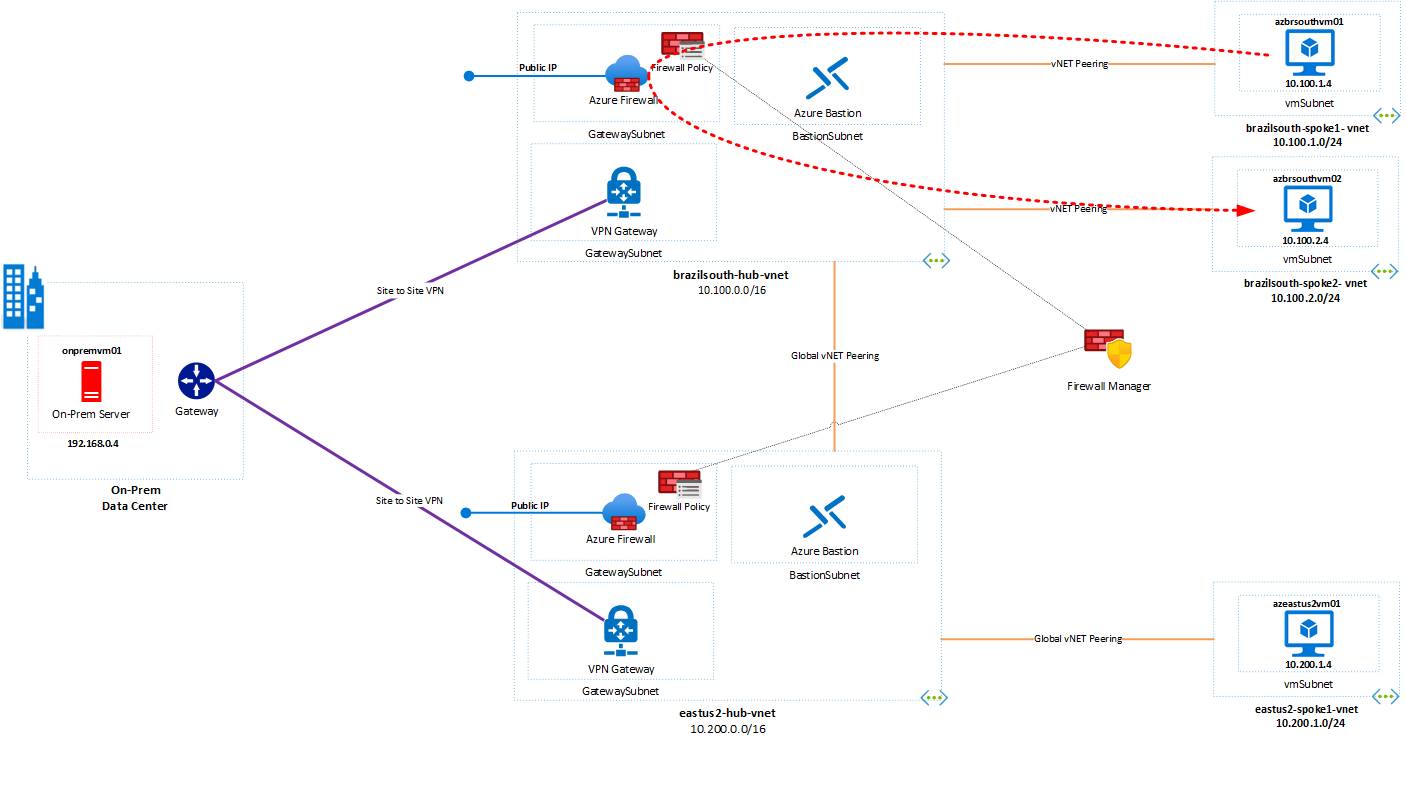
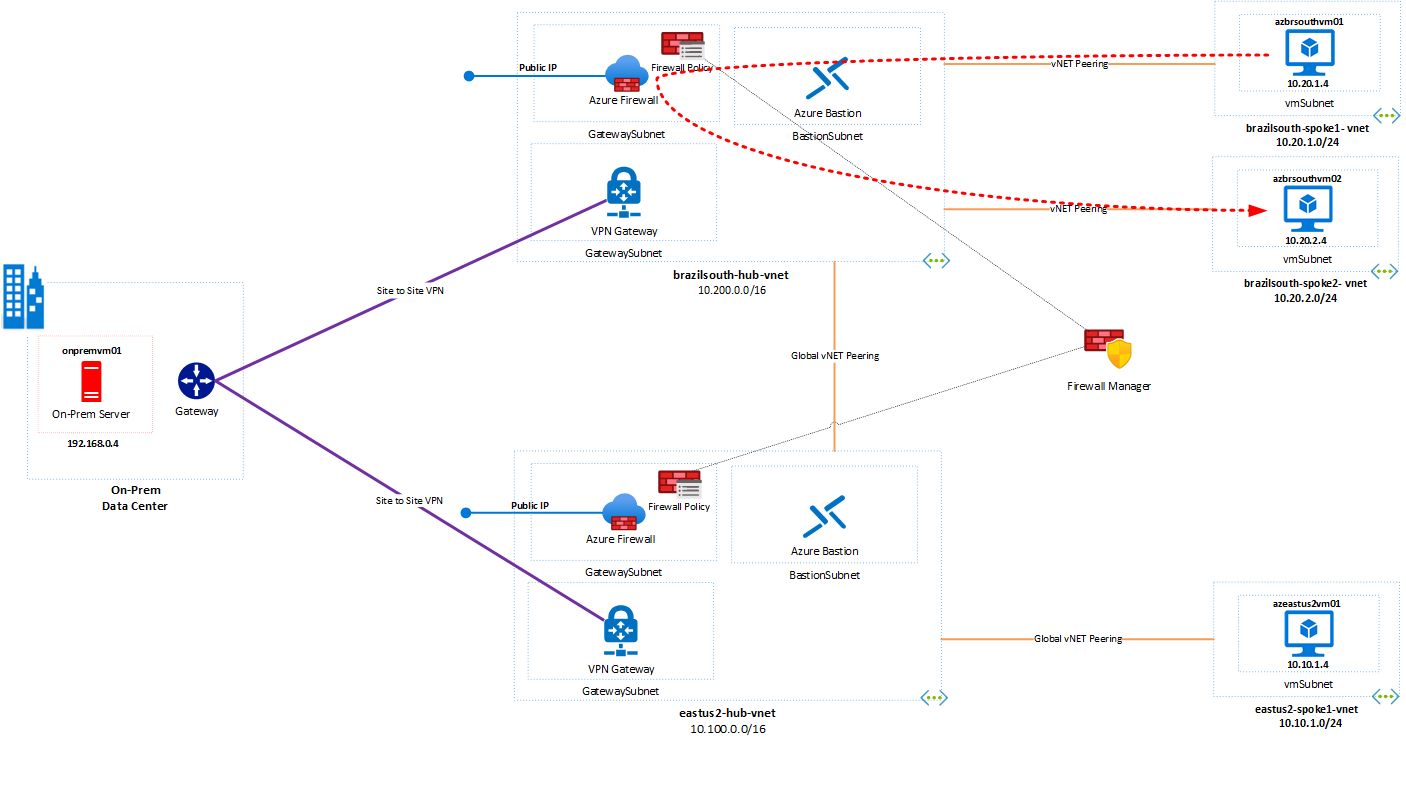
updates

diff --git a/README.md b/README.md
@@ -181,7 +181,7 @@ az network vnet subnet update --name vmsubnet --vnet-name brazilsouth-spoke2-vne
 
 Verify again the routing on **azbrsouthvm01** using the Azure Cloud Shell or Azure Portal.
 
-#### Task 2 - Deploy Network rule inside the Azure Firewall
+#### Task 2 - Deploy Network rules inside the Azure Firewall
 
 After you finish the setup for UDR (**Task 1**) try to use ping tool between the virtual machines (**azbrsouthvm01 - 10.20.1.4** and **azbrsouthvm02 - 10.20.2.4**) and ckeck on the results in the Azure Log Analytics. You can use the below Kusto Query:
 
@@ -241,9 +241,9 @@ Wait for the complete the configuration.
 
 ### Challenge 2 : Inter-region Forwarding
 
-Now you will expand communication to another region from spoke in Brazil South to spoke in EastUS2. The main goal to inspect the routes and test with the ping tool the communication between virtual machines.
+You will expand communication by adding a Hub with a spoke virtual network in the US East2 region. These inter-connection elements are gone deploy, and your goal is to create the routing between regions, inspect it, and test with the ping tool the communication between virtual machines.
 
-#### Task 1 - Add new a route in the existing User Defined Route (UDR)
+#### Task 1 - Set up rules in the existing User Defined Route (UDR)
 
 Connect to **azbrazilsouthvm01 - 10.20.1.4** via Bastion, open the command prompt and try to ping the  **azeastus2vm01 - 10.10.1.4**.
 
@@ -256,21 +256,29 @@ az network nic show-effective-route-table -g firewall-microhack-rg -n azbrsouthv
 ```
 :question: Any route to **azeastus2vm01**?
 
-Configure a existing route table using the Azure Cloud Shell for subnet on the spokes virtual networks in Brazil South and Eastus2 regions.
+Set up rule on the an existing routing table using the Azure Cloud Shell for the subnet on the spokes virtual networks in Brazil South and EastUS2 regions. These routes will permit that you reach the virtual machines in both regions.
 
 ```azure cli
-
 az network route-table route create --name to-eastus2-spoke1 --resource-group firewall-microhack-rg --route-table-name brazilsouth-spoke1-rt --address-prefix 10.10.1.0/24 --next-hop-type VirtualAppliance --next-hop-ip-address 10.200.3.4
+az network route-table route create --name to-brazil-spoke1 --resource-group firewall-microhack-rg --route-table-name eastus2-spoke1-rt --address-prefix 10.20.1.0/24 --next-hop-type VirtualAppliance --next-hop-ip-address 10.100.3.4
+```
+
+:exclamation: You will need to manipulate the routing table (UDR) to reach the virtual machine in the East US region through two Azure Firewall
+
+```azure cli
 az network route-table route create --name to-eastus2-spoke1 --resource-group firewall-microhack-rg --route-table-name brazilsouth-interconn-rt --address-prefix 10.10.1.0/24 --next-hop-type VirtualAppliance --next-hop-ip-address 10.100.3.4
 az network route-table route create --name to-internet --resource-group firewall-microhack-rg --route-table-name brazilsouth-interconn-rt --address-prefix 0.0.0.0/0 --next-hop-type Internet
-az network route-table route create --name to-brazil-spoke1 --resource-group firewall-microhack-rg --route-table-name eastus2-spoke1-rt --address-prefix 10.20.1.0/24 --next-hop-type VirtualAppliance --next-hop-ip-address 10.100.3.4
 az network route-table route create --name to-brazilsouth-spoke1 --resource-group firewall-microhack-rg --route-table-name eastus2-interconn-rt --address-prefix 10.20.1.0/24 --next-hop-type VirtualAppliance --next-hop-ip-address 10.200.3.4
 az network route-table route create --name to-internet --resource-group firewall-microhack-rg --route-table-name eastus2-interconn-rt --address-prefix 0.0.0.0/0 --next-hop-type Internet
 az network vnet subnet update --name AzureFirewallSubnet --vnet-name brazilsouth-hub-vnet  --resource-group firewall-microhack-rg  --route-table brazilsouth-interconn-rt
 az network vnet subnet update --name AzureFirewallSubnet --vnet-name eastus2-hub-vnet  --resource-group firewall-microhack-rg  --route-table eastus2-interconn-rt
+
 ```
+![Inter-region Route Set Up](images/Inter-region-Forwarding1.png)
 
+Look at routing on **azbrsouthvm01** using the Azure Cloud Shell or Azure Portal, and verify if exist a route to reach the virtual machine **azeastus2vm01**.
 
+#### Task 2 - Set up Network rules inside the Azure Firewall instances
 
 ### Challenge 3 :  
 ### Challenge 4 : 
